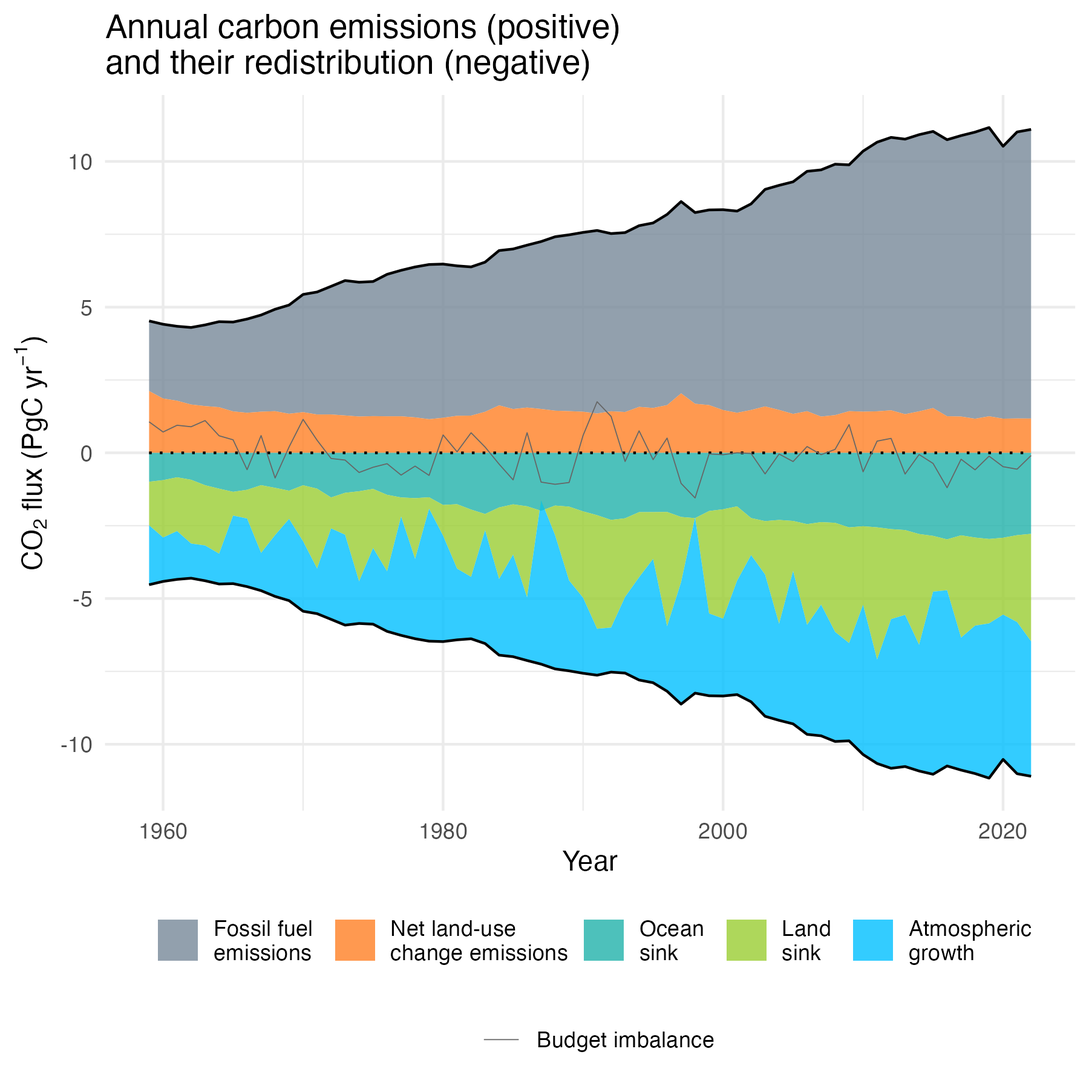
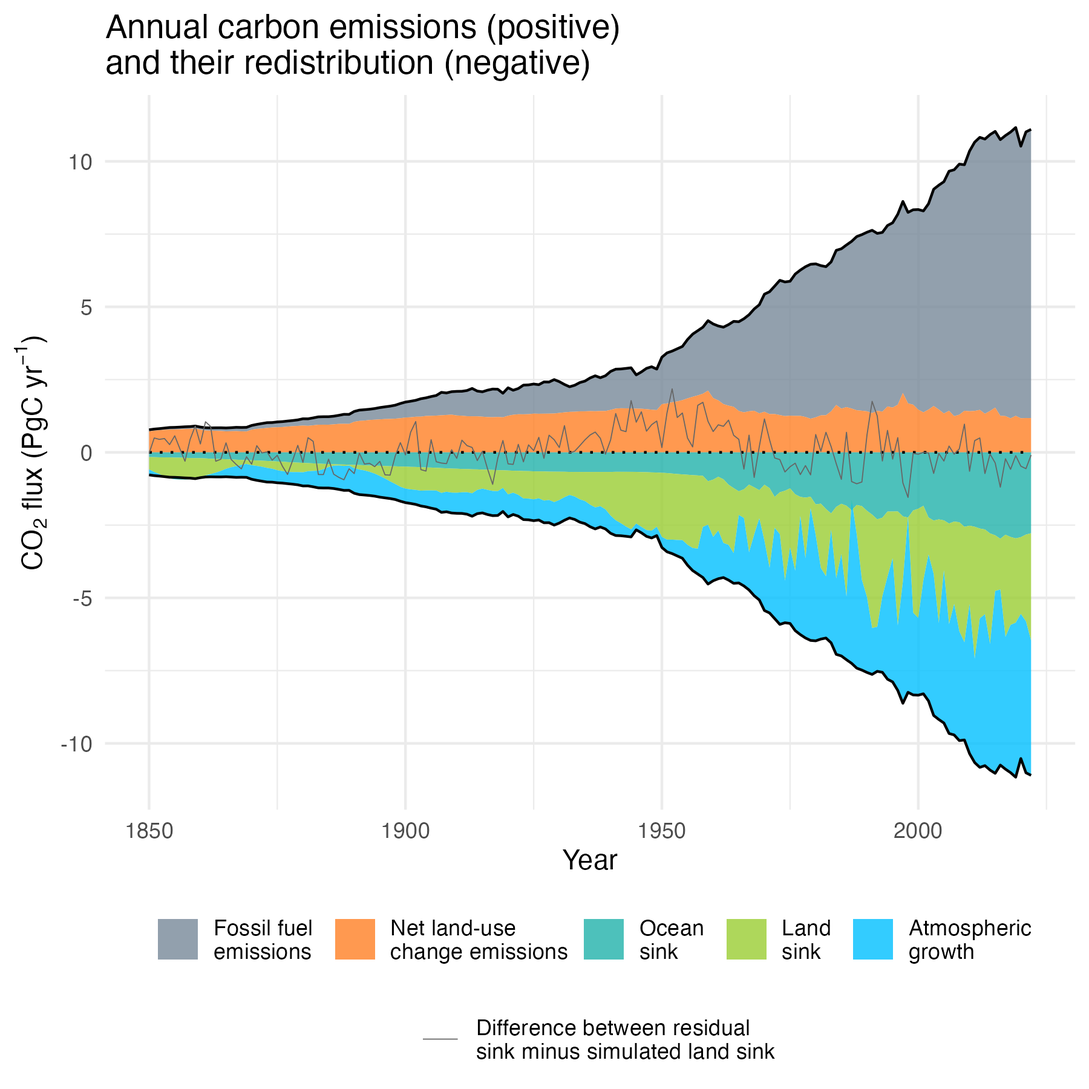
Built site for gh-pages

diff --git a/globalcarbonbudget.html b/globalcarbonbudget.html
@@ -628,115 +628,122 @@ Exercise
 <span id="cb1-9"><a href="#cb1-9" aria-hidden="true" tabindex="-1"></a><span class="co"># https://globalcarbonbudgetdata.org/latest-data.html</span></span>
 <span id="cb1-10"><a href="#cb1-10" aria-hidden="true" tabindex="-1"></a><span class="co"># Saved tab Global Carbon Budget as a CSV file. </span></span>
 <span id="cb1-11"><a href="#cb1-11" aria-hidden="true" tabindex="-1"></a><span class="co"># Reading this CSV here.</span></span>
-<span id="cb1-12"><a href="#cb1-12" aria-hidden="true" tabindex="-1"></a>df <span class="ot">&lt;-</span> <span class="fu">read_csv</span>(<span class="fu">here</span>(<span class="st">"data/Global_Carbon_Budget_2023v1.0_tabGlobalCarbonBudget.csv"</span>))</span>
+<span id="cb1-12"><a href="#cb1-12" aria-hidden="true" tabindex="-1"></a>df <span class="ot">&lt;-</span> <span class="fu">read_csv</span>(<span class="fu">here</span>(<span class="st">"data/Global_Carbon_Budget_2023v1.1_tabHistoricalBudget.csv"</span>))</span>
 <span id="cb1-13"><a href="#cb1-13" aria-hidden="true" tabindex="-1"></a></span>
 <span id="cb1-14"><a href="#cb1-14" aria-hidden="true" tabindex="-1"></a><span class="co"># (Re-) definitions</span></span>
 <span id="cb1-15"><a href="#cb1-15" aria-hidden="true" tabindex="-1"></a>df <span class="ot">&lt;-</span> df <span class="sc">|&gt;</span> </span>
 <span id="cb1-16"><a href="#cb1-16" aria-hidden="true" tabindex="-1"></a>  </span>
-<span id="cb1-17"><a href="#cb1-17" aria-hidden="true" tabindex="-1"></a>  <span class="co"># Include the carbonation sink in the fossil fuel emissions</span></span>
-<span id="cb1-18"><a href="#cb1-18" aria-hidden="true" tabindex="-1"></a>  <span class="fu">mutate</span>(<span class="at">e_ff =</span> e_ff <span class="sc">-</span> s_cement) <span class="sc">|&gt;</span> </span>
-<span id="cb1-19"><a href="#cb1-19" aria-hidden="true" tabindex="-1"></a>    </span>
-<span id="cb1-20"><a href="#cb1-20" aria-hidden="true" tabindex="-1"></a>  <span class="co"># Land sink defined as the budget residual</span></span>
-<span id="cb1-21"><a href="#cb1-21" aria-hidden="true" tabindex="-1"></a>  <span class="fu">mutate</span>(<span class="at">s_res =</span> e_ff <span class="sc">+</span> e_luc <span class="sc">-</span> g_atm <span class="sc">-</span> s_ocean)</span>
-<span id="cb1-22"><a href="#cb1-22" aria-hidden="true" tabindex="-1"></a></span>
-<span id="cb1-23"><a href="#cb1-23" aria-hidden="true" tabindex="-1"></a><span class="co"># Create the budget plot</span></span>
-<span id="cb1-24"><a href="#cb1-24" aria-hidden="true" tabindex="-1"></a>df <span class="sc">|&gt;</span> </span>
-<span id="cb1-25"><a href="#cb1-25" aria-hidden="true" tabindex="-1"></a>  <span class="fu">ggplot</span>() <span class="sc">+</span></span>
-<span id="cb1-26"><a href="#cb1-26" aria-hidden="true" tabindex="-1"></a>  <span class="fu">geom_ribbon</span>(</span>
-<span id="cb1-27"><a href="#cb1-27" aria-hidden="true" tabindex="-1"></a>    <span class="fu">aes</span>(</span>
-<span id="cb1-28"><a href="#cb1-28" aria-hidden="true" tabindex="-1"></a>        <span class="at">x =</span> year, </span>
-<span id="cb1-29"><a href="#cb1-29" aria-hidden="true" tabindex="-1"></a>        <span class="at">ymax =</span> e_ff <span class="sc">+</span> e_luc, </span>
-<span id="cb1-30"><a href="#cb1-30" aria-hidden="true" tabindex="-1"></a>        <span class="at">ymin =</span> e_luc, </span>
-<span id="cb1-31"><a href="#cb1-31" aria-hidden="true" tabindex="-1"></a>        <span class="at">fill =</span> <span class="st">"ff"</span>), </span>
-<span id="cb1-32"><a href="#cb1-32" aria-hidden="true" tabindex="-1"></a>    <span class="at">alpha =</span> <span class="fl">0.8</span></span>
-<span id="cb1-33"><a href="#cb1-33" aria-hidden="true" tabindex="-1"></a>    ) <span class="sc">+</span></span>
-<span id="cb1-34"><a href="#cb1-34" aria-hidden="true" tabindex="-1"></a>  <span class="fu">geom_ribbon</span>(</span>
-<span id="cb1-35"><a href="#cb1-35" aria-hidden="true" tabindex="-1"></a>    <span class="fu">aes</span>(</span>
-<span id="cb1-36"><a href="#cb1-36" aria-hidden="true" tabindex="-1"></a>        <span class="at">x =</span> year, </span>
-<span id="cb1-37"><a href="#cb1-37" aria-hidden="true" tabindex="-1"></a>        <span class="at">ymax =</span> e_luc, </span>
-<span id="cb1-38"><a href="#cb1-38" aria-hidden="true" tabindex="-1"></a>        <span class="at">ymin =</span> <span class="dv">0</span>, </span>
-<span id="cb1-39"><a href="#cb1-39" aria-hidden="true" tabindex="-1"></a>        <span class="at">fill =</span> <span class="st">"luc"</span>), </span>
-<span id="cb1-40"><a href="#cb1-40" aria-hidden="true" tabindex="-1"></a>    <span class="at">alpha =</span> <span class="fl">0.8</span></span>
-<span id="cb1-41"><a href="#cb1-41" aria-hidden="true" tabindex="-1"></a>    ) <span class="sc">+</span></span>
-<span id="cb1-42"><a href="#cb1-42" aria-hidden="true" tabindex="-1"></a>  <span class="fu">geom_ribbon</span>(</span>
-<span id="cb1-43"><a href="#cb1-43" aria-hidden="true" tabindex="-1"></a>    <span class="fu">aes</span>(</span>
-<span id="cb1-44"><a href="#cb1-44" aria-hidden="true" tabindex="-1"></a>        <span class="at">x =</span> year, </span>
-<span id="cb1-45"><a href="#cb1-45" aria-hidden="true" tabindex="-1"></a>        <span class="at">ymax =</span> <span class="dv">0</span>, </span>
-<span id="cb1-46"><a href="#cb1-46" aria-hidden="true" tabindex="-1"></a>        <span class="at">ymin =</span> <span class="sc">-</span>s_ocean, </span>
-<span id="cb1-47"><a href="#cb1-47" aria-hidden="true" tabindex="-1"></a>        <span class="at">fill =</span> <span class="st">"ocean"</span>), </span>
-<span id="cb1-48"><a href="#cb1-48" aria-hidden="true" tabindex="-1"></a>    <span class="at">alpha =</span> <span class="fl">0.8</span></span>
-<span id="cb1-49"><a href="#cb1-49" aria-hidden="true" tabindex="-1"></a>    ) <span class="sc">+</span></span>
-<span id="cb1-50"><a href="#cb1-50" aria-hidden="true" tabindex="-1"></a>  <span class="fu">geom_ribbon</span>(</span>
-<span id="cb1-51"><a href="#cb1-51" aria-hidden="true" tabindex="-1"></a>    <span class="fu">aes</span>(</span>
-<span id="cb1-52"><a href="#cb1-52" aria-hidden="true" tabindex="-1"></a>        <span class="at">x =</span> year, </span>
-<span id="cb1-53"><a href="#cb1-53" aria-hidden="true" tabindex="-1"></a>        <span class="at">ymax =</span> <span class="sc">-</span>s_ocean, </span>
-<span id="cb1-54"><a href="#cb1-54" aria-hidden="true" tabindex="-1"></a>        <span class="at">ymin =</span> <span class="sc">-</span>(s_ocean <span class="sc">+</span> s_res), </span>
-<span id="cb1-55"><a href="#cb1-55" aria-hidden="true" tabindex="-1"></a>        <span class="at">fill =</span> <span class="st">"land"</span>), </span>
-<span id="cb1-56"><a href="#cb1-56" aria-hidden="true" tabindex="-1"></a>    <span class="at">alpha =</span> <span class="fl">0.8</span></span>
-<span id="cb1-57"><a href="#cb1-57" aria-hidden="true" tabindex="-1"></a>    ) <span class="sc">+</span></span>
-<span id="cb1-58"><a href="#cb1-58" aria-hidden="true" tabindex="-1"></a>  <span class="fu">geom_ribbon</span>(</span>
-<span id="cb1-59"><a href="#cb1-59" aria-hidden="true" tabindex="-1"></a>    <span class="fu">aes</span>(</span>
-<span id="cb1-60"><a href="#cb1-60" aria-hidden="true" tabindex="-1"></a>        <span class="at">x =</span> year, </span>
-<span id="cb1-61"><a href="#cb1-61" aria-hidden="true" tabindex="-1"></a>        <span class="at">ymax =</span> <span class="sc">-</span>(s_ocean <span class="sc">+</span> s_res), </span>
-<span id="cb1-62"><a href="#cb1-62" aria-hidden="true" tabindex="-1"></a>        <span class="at">ymin =</span> <span class="sc">-</span>(s_ocean <span class="sc">+</span> s_res <span class="sc">+</span> g_atm), </span>
-<span id="cb1-63"><a href="#cb1-63" aria-hidden="true" tabindex="-1"></a>        <span class="at">fill =</span> <span class="st">"atm"</span>), </span>
-<span id="cb1-64"><a href="#cb1-64" aria-hidden="true" tabindex="-1"></a>    <span class="at">alpha =</span> <span class="fl">0.8</span>) <span class="sc">+</span></span>
-<span id="cb1-65"><a href="#cb1-65" aria-hidden="true" tabindex="-1"></a>  <span class="fu">geom_line</span>(</span>
+<span id="cb1-17"><a href="#cb1-17" aria-hidden="true" tabindex="-1"></a>  <span class="co"># consider only years after 1850</span></span>
+<span id="cb1-18"><a href="#cb1-18" aria-hidden="true" tabindex="-1"></a>  <span class="fu">filter</span>(year <span class="sc">&gt;=</span> <span class="dv">1850</span>) <span class="sc">|&gt;</span> </span>
+<span id="cb1-19"><a href="#cb1-19" aria-hidden="true" tabindex="-1"></a>  </span>
+<span id="cb1-20"><a href="#cb1-20" aria-hidden="true" tabindex="-1"></a>  <span class="co"># Assume zero cement carbonation sink for years where no data is available </span></span>
+<span id="cb1-21"><a href="#cb1-21" aria-hidden="true" tabindex="-1"></a>  <span class="co"># (pre-1930)</span></span>
+<span id="cb1-22"><a href="#cb1-22" aria-hidden="true" tabindex="-1"></a>  <span class="fu">mutate</span>(<span class="at">s_cement =</span> <span class="fu">ifelse</span>(<span class="fu">is.na</span>(s_cement), <span class="dv">0</span>, s_cement)) <span class="sc">|&gt;</span> </span>
+<span id="cb1-23"><a href="#cb1-23" aria-hidden="true" tabindex="-1"></a>  </span>
+<span id="cb1-24"><a href="#cb1-24" aria-hidden="true" tabindex="-1"></a>  <span class="co"># Include the carbonation sink in the fossil fuel emissions</span></span>
+<span id="cb1-25"><a href="#cb1-25" aria-hidden="true" tabindex="-1"></a>  <span class="fu">mutate</span>(<span class="at">e_ff =</span> e_ff <span class="sc">-</span> s_cement) <span class="sc">|&gt;</span> </span>
+<span id="cb1-26"><a href="#cb1-26" aria-hidden="true" tabindex="-1"></a>    </span>
+<span id="cb1-27"><a href="#cb1-27" aria-hidden="true" tabindex="-1"></a>  <span class="co"># Land sink defined as the budget residual</span></span>
+<span id="cb1-28"><a href="#cb1-28" aria-hidden="true" tabindex="-1"></a>  <span class="fu">mutate</span>(<span class="at">s_res =</span> e_ff <span class="sc">+</span> e_luc <span class="sc">-</span> g_atm <span class="sc">-</span> s_ocean)</span>
+<span id="cb1-29"><a href="#cb1-29" aria-hidden="true" tabindex="-1"></a></span>
+<span id="cb1-30"><a href="#cb1-30" aria-hidden="true" tabindex="-1"></a><span class="co"># Create the budget plot</span></span>
+<span id="cb1-31"><a href="#cb1-31" aria-hidden="true" tabindex="-1"></a>df <span class="sc">|&gt;</span> </span>
+<span id="cb1-32"><a href="#cb1-32" aria-hidden="true" tabindex="-1"></a>  <span class="fu">ggplot</span>() <span class="sc">+</span></span>
+<span id="cb1-33"><a href="#cb1-33" aria-hidden="true" tabindex="-1"></a>  <span class="fu">geom_ribbon</span>(</span>
+<span id="cb1-34"><a href="#cb1-34" aria-hidden="true" tabindex="-1"></a>    <span class="fu">aes</span>(</span>
+<span id="cb1-35"><a href="#cb1-35" aria-hidden="true" tabindex="-1"></a>        <span class="at">x =</span> year, </span>
+<span id="cb1-36"><a href="#cb1-36" aria-hidden="true" tabindex="-1"></a>        <span class="at">ymax =</span> e_ff <span class="sc">+</span> e_luc, </span>
+<span id="cb1-37"><a href="#cb1-37" aria-hidden="true" tabindex="-1"></a>        <span class="at">ymin =</span> e_luc, </span>
+<span id="cb1-38"><a href="#cb1-38" aria-hidden="true" tabindex="-1"></a>        <span class="at">fill =</span> <span class="st">"ff"</span>), </span>
+<span id="cb1-39"><a href="#cb1-39" aria-hidden="true" tabindex="-1"></a>    <span class="at">alpha =</span> <span class="fl">0.8</span></span>
+<span id="cb1-40"><a href="#cb1-40" aria-hidden="true" tabindex="-1"></a>    ) <span class="sc">+</span></span>
+<span id="cb1-41"><a href="#cb1-41" aria-hidden="true" tabindex="-1"></a>  <span class="fu">geom_ribbon</span>(</span>
+<span id="cb1-42"><a href="#cb1-42" aria-hidden="true" tabindex="-1"></a>    <span class="fu">aes</span>(</span>
+<span id="cb1-43"><a href="#cb1-43" aria-hidden="true" tabindex="-1"></a>        <span class="at">x =</span> year, </span>
+<span id="cb1-44"><a href="#cb1-44" aria-hidden="true" tabindex="-1"></a>        <span class="at">ymax =</span> e_luc, </span>
+<span id="cb1-45"><a href="#cb1-45" aria-hidden="true" tabindex="-1"></a>        <span class="at">ymin =</span> <span class="dv">0</span>, </span>
+<span id="cb1-46"><a href="#cb1-46" aria-hidden="true" tabindex="-1"></a>        <span class="at">fill =</span> <span class="st">"luc"</span>), </span>
+<span id="cb1-47"><a href="#cb1-47" aria-hidden="true" tabindex="-1"></a>    <span class="at">alpha =</span> <span class="fl">0.8</span></span>
+<span id="cb1-48"><a href="#cb1-48" aria-hidden="true" tabindex="-1"></a>    ) <span class="sc">+</span></span>
+<span id="cb1-49"><a href="#cb1-49" aria-hidden="true" tabindex="-1"></a>  <span class="fu">geom_ribbon</span>(</span>
+<span id="cb1-50"><a href="#cb1-50" aria-hidden="true" tabindex="-1"></a>    <span class="fu">aes</span>(</span>
+<span id="cb1-51"><a href="#cb1-51" aria-hidden="true" tabindex="-1"></a>        <span class="at">x =</span> year, </span>
+<span id="cb1-52"><a href="#cb1-52" aria-hidden="true" tabindex="-1"></a>        <span class="at">ymax =</span> <span class="dv">0</span>, </span>
+<span id="cb1-53"><a href="#cb1-53" aria-hidden="true" tabindex="-1"></a>        <span class="at">ymin =</span> <span class="sc">-</span>s_ocean, </span>
+<span id="cb1-54"><a href="#cb1-54" aria-hidden="true" tabindex="-1"></a>        <span class="at">fill =</span> <span class="st">"ocean"</span>), </span>
+<span id="cb1-55"><a href="#cb1-55" aria-hidden="true" tabindex="-1"></a>    <span class="at">alpha =</span> <span class="fl">0.8</span></span>
+<span id="cb1-56"><a href="#cb1-56" aria-hidden="true" tabindex="-1"></a>    ) <span class="sc">+</span></span>
+<span id="cb1-57"><a href="#cb1-57" aria-hidden="true" tabindex="-1"></a>  <span class="fu">geom_ribbon</span>(</span>
+<span id="cb1-58"><a href="#cb1-58" aria-hidden="true" tabindex="-1"></a>    <span class="fu">aes</span>(</span>
+<span id="cb1-59"><a href="#cb1-59" aria-hidden="true" tabindex="-1"></a>        <span class="at">x =</span> year, </span>
+<span id="cb1-60"><a href="#cb1-60" aria-hidden="true" tabindex="-1"></a>        <span class="at">ymax =</span> <span class="sc">-</span>s_ocean, </span>
+<span id="cb1-61"><a href="#cb1-61" aria-hidden="true" tabindex="-1"></a>        <span class="at">ymin =</span> <span class="sc">-</span>(s_ocean <span class="sc">+</span> s_res), </span>
+<span id="cb1-62"><a href="#cb1-62" aria-hidden="true" tabindex="-1"></a>        <span class="at">fill =</span> <span class="st">"land"</span>), </span>
+<span id="cb1-63"><a href="#cb1-63" aria-hidden="true" tabindex="-1"></a>    <span class="at">alpha =</span> <span class="fl">0.8</span></span>
+<span id="cb1-64"><a href="#cb1-64" aria-hidden="true" tabindex="-1"></a>    ) <span class="sc">+</span></span>
+<span id="cb1-65"><a href="#cb1-65" aria-hidden="true" tabindex="-1"></a>  <span class="fu">geom_ribbon</span>(</span>
 <span id="cb1-66"><a href="#cb1-66" aria-hidden="true" tabindex="-1"></a>    <span class="fu">aes</span>(</span>
 <span id="cb1-67"><a href="#cb1-67" aria-hidden="true" tabindex="-1"></a>        <span class="at">x =</span> year, </span>
-<span id="cb1-68"><a href="#cb1-68" aria-hidden="true" tabindex="-1"></a>        <span class="at">y =</span> <span class="dv">0</span>), </span>
-<span id="cb1-69"><a href="#cb1-69" aria-hidden="true" tabindex="-1"></a>    <span class="at">linetype =</span> <span class="st">"dotted"</span>) <span class="sc">+</span></span>
-<span id="cb1-70"><a href="#cb1-70" aria-hidden="true" tabindex="-1"></a>  <span class="fu">geom_line</span>(</span>
-<span id="cb1-71"><a href="#cb1-71" aria-hidden="true" tabindex="-1"></a>    <span class="fu">aes</span>(</span>
-<span id="cb1-72"><a href="#cb1-72" aria-hidden="true" tabindex="-1"></a>        <span class="at">x =</span> year, </span>
-<span id="cb1-73"><a href="#cb1-73" aria-hidden="true" tabindex="-1"></a>        <span class="at">y =</span> e_ff <span class="sc">+</span> e_luc)</span>
-<span id="cb1-74"><a href="#cb1-74" aria-hidden="true" tabindex="-1"></a>    ) <span class="sc">+</span></span>
-<span id="cb1-75"><a href="#cb1-75" aria-hidden="true" tabindex="-1"></a>  <span class="fu">geom_line</span>(</span>
-<span id="cb1-76"><a href="#cb1-76" aria-hidden="true" tabindex="-1"></a>    <span class="fu">aes</span>(</span>
-<span id="cb1-77"><a href="#cb1-77" aria-hidden="true" tabindex="-1"></a>        <span class="at">x =</span> year, </span>
-<span id="cb1-78"><a href="#cb1-78" aria-hidden="true" tabindex="-1"></a>        <span class="at">y =</span> <span class="sc">-</span>(s_ocean <span class="sc">+</span> s_res <span class="sc">+</span> g_atm)</span>
-<span id="cb1-79"><a href="#cb1-79" aria-hidden="true" tabindex="-1"></a>        )</span>
-<span id="cb1-80"><a href="#cb1-80" aria-hidden="true" tabindex="-1"></a>    ) <span class="sc">+</span></span>
-<span id="cb1-81"><a href="#cb1-81" aria-hidden="true" tabindex="-1"></a>  <span class="fu">geom_line</span>(</span>
-<span id="cb1-82"><a href="#cb1-82" aria-hidden="true" tabindex="-1"></a>    <span class="fu">aes</span>(</span>
-<span id="cb1-83"><a href="#cb1-83" aria-hidden="true" tabindex="-1"></a>        <span class="at">x =</span> year, </span>
-<span id="cb1-84"><a href="#cb1-84" aria-hidden="true" tabindex="-1"></a>        <span class="at">y =</span> imbalance, </span>
-<span id="cb1-85"><a href="#cb1-85" aria-hidden="true" tabindex="-1"></a>        <span class="at">color =</span> <span class="st">"imbalance"</span>), </span>
-<span id="cb1-86"><a href="#cb1-86" aria-hidden="true" tabindex="-1"></a>    <span class="at">linewidth =</span> <span class="fl">0.2</span></span>
+<span id="cb1-68"><a href="#cb1-68" aria-hidden="true" tabindex="-1"></a>        <span class="at">ymax =</span> <span class="sc">-</span>(s_ocean <span class="sc">+</span> s_res), </span>
+<span id="cb1-69"><a href="#cb1-69" aria-hidden="true" tabindex="-1"></a>        <span class="at">ymin =</span> <span class="sc">-</span>(s_ocean <span class="sc">+</span> s_res <span class="sc">+</span> g_atm), </span>
+<span id="cb1-70"><a href="#cb1-70" aria-hidden="true" tabindex="-1"></a>        <span class="at">fill =</span> <span class="st">"atm"</span>), </span>
+<span id="cb1-71"><a href="#cb1-71" aria-hidden="true" tabindex="-1"></a>    <span class="at">alpha =</span> <span class="fl">0.8</span>) <span class="sc">+</span></span>
+<span id="cb1-72"><a href="#cb1-72" aria-hidden="true" tabindex="-1"></a>  <span class="fu">geom_line</span>(</span>
+<span id="cb1-73"><a href="#cb1-73" aria-hidden="true" tabindex="-1"></a>    <span class="fu">aes</span>(</span>
+<span id="cb1-74"><a href="#cb1-74" aria-hidden="true" tabindex="-1"></a>        <span class="at">x =</span> year, </span>
+<span id="cb1-75"><a href="#cb1-75" aria-hidden="true" tabindex="-1"></a>        <span class="at">y =</span> <span class="dv">0</span>), </span>
+<span id="cb1-76"><a href="#cb1-76" aria-hidden="true" tabindex="-1"></a>    <span class="at">linetype =</span> <span class="st">"dotted"</span>) <span class="sc">+</span></span>
+<span id="cb1-77"><a href="#cb1-77" aria-hidden="true" tabindex="-1"></a>  <span class="fu">geom_line</span>(</span>
+<span id="cb1-78"><a href="#cb1-78" aria-hidden="true" tabindex="-1"></a>    <span class="fu">aes</span>(</span>
+<span id="cb1-79"><a href="#cb1-79" aria-hidden="true" tabindex="-1"></a>        <span class="at">x =</span> year, </span>
+<span id="cb1-80"><a href="#cb1-80" aria-hidden="true" tabindex="-1"></a>        <span class="at">y =</span> e_ff <span class="sc">+</span> e_luc)</span>
+<span id="cb1-81"><a href="#cb1-81" aria-hidden="true" tabindex="-1"></a>    ) <span class="sc">+</span></span>
+<span id="cb1-82"><a href="#cb1-82" aria-hidden="true" tabindex="-1"></a>  <span class="fu">geom_line</span>(</span>
+<span id="cb1-83"><a href="#cb1-83" aria-hidden="true" tabindex="-1"></a>    <span class="fu">aes</span>(</span>
+<span id="cb1-84"><a href="#cb1-84" aria-hidden="true" tabindex="-1"></a>        <span class="at">x =</span> year, </span>
+<span id="cb1-85"><a href="#cb1-85" aria-hidden="true" tabindex="-1"></a>        <span class="at">y =</span> <span class="sc">-</span>(s_ocean <span class="sc">+</span> s_res <span class="sc">+</span> g_atm)</span>
+<span id="cb1-86"><a href="#cb1-86" aria-hidden="true" tabindex="-1"></a>        )</span>
 <span id="cb1-87"><a href="#cb1-87" aria-hidden="true" tabindex="-1"></a>    ) <span class="sc">+</span></span>
-<span id="cb1-88"><a href="#cb1-88" aria-hidden="true" tabindex="-1"></a>  <span class="fu">labs</span>(<span class="at">x =</span> <span class="st">"Year"</span>,</span>
-<span id="cb1-89"><a href="#cb1-89" aria-hidden="true" tabindex="-1"></a>       <span class="at">y =</span> <span class="fu">expression</span>(<span class="fu">paste</span>(<span class="st">"CO"</span>[<span class="dv">2</span>], <span class="st">" flux (PgC yr"</span><span class="sc">^-</span><span class="dv">1</span>, <span class="st">")"</span>)),</span>
-<span id="cb1-90"><a href="#cb1-90" aria-hidden="true" tabindex="-1"></a>       <span class="at">title =</span> <span class="st">"Annual carbon emissions (positive) </span><span class="sc">\n</span><span class="st">and their redistribution (negative)"</span></span>
-<span id="cb1-91"><a href="#cb1-91" aria-hidden="true" tabindex="-1"></a>       ) <span class="sc">+</span></span>
-<span id="cb1-92"><a href="#cb1-92" aria-hidden="true" tabindex="-1"></a>  <span class="fu">scale_fill_manual</span>(</span>
-<span id="cb1-93"><a href="#cb1-93" aria-hidden="true" tabindex="-1"></a>    <span class="at">name =</span> <span class="st">""</span>,</span>
-<span id="cb1-94"><a href="#cb1-94" aria-hidden="true" tabindex="-1"></a>    <span class="at">breaks =</span> <span class="fu">c</span>(<span class="st">"ff"</span>, <span class="st">"luc"</span>, <span class="st">"ocean"</span>, <span class="st">"land"</span>, <span class="st">"atm"</span>),</span>
-<span id="cb1-95"><a href="#cb1-95" aria-hidden="true" tabindex="-1"></a>    <span class="at">values =</span> <span class="fu">c</span>(<span class="st">"ff"</span> <span class="ot">=</span> <span class="st">"lightslategrey"</span>,</span>
-<span id="cb1-96"><a href="#cb1-96" aria-hidden="true" tabindex="-1"></a>               <span class="st">"luc"</span> <span class="ot">=</span> <span class="st">"chocolate1"</span>,</span>
-<span id="cb1-97"><a href="#cb1-97" aria-hidden="true" tabindex="-1"></a>               <span class="st">"ocean"</span> <span class="ot">=</span> <span class="st">"lightseagreen"</span>,</span>
-<span id="cb1-98"><a href="#cb1-98" aria-hidden="true" tabindex="-1"></a>               <span class="st">"land"</span> <span class="ot">=</span> <span class="st">"yellowgreen"</span>,</span>
-<span id="cb1-99"><a href="#cb1-99" aria-hidden="true" tabindex="-1"></a>               <span class="st">"atm"</span> <span class="ot">=</span> <span class="st">"deepskyblue1"</span></span>
-<span id="cb1-100"><a href="#cb1-100" aria-hidden="true" tabindex="-1"></a>               ),</span>
-<span id="cb1-101"><a href="#cb1-101" aria-hidden="true" tabindex="-1"></a>    <span class="at">labels =</span> <span class="fu">c</span>(<span class="st">"Fossil fuel </span><span class="sc">\n</span><span class="st">emissions"</span>, </span>
-<span id="cb1-102"><a href="#cb1-102" aria-hidden="true" tabindex="-1"></a>               <span class="st">"Net land-use </span><span class="sc">\n</span><span class="st">change emissions"</span>, </span>
-<span id="cb1-103"><a href="#cb1-103" aria-hidden="true" tabindex="-1"></a>               <span class="st">"Ocean </span><span class="sc">\n</span><span class="st">sink"</span>, </span>
-<span id="cb1-104"><a href="#cb1-104" aria-hidden="true" tabindex="-1"></a>               <span class="st">"Land </span><span class="sc">\n</span><span class="st">sink"</span>, </span>
-<span id="cb1-105"><a href="#cb1-105" aria-hidden="true" tabindex="-1"></a>               <span class="st">"Atmospheric </span><span class="sc">\n</span><span class="st">growth"</span></span>
-<span id="cb1-106"><a href="#cb1-106" aria-hidden="true" tabindex="-1"></a>               )</span>
-<span id="cb1-107"><a href="#cb1-107" aria-hidden="true" tabindex="-1"></a>  ) <span class="sc">+</span></span>
-<span id="cb1-108"><a href="#cb1-108" aria-hidden="true" tabindex="-1"></a>  <span class="fu">scale_color_manual</span>(</span>
-<span id="cb1-109"><a href="#cb1-109" aria-hidden="true" tabindex="-1"></a>    <span class="at">name =</span> <span class="st">""</span>, </span>
-<span id="cb1-110"><a href="#cb1-110" aria-hidden="true" tabindex="-1"></a>    <span class="at">breaks =</span> <span class="st">"imbalance"</span>, </span>
-<span id="cb1-111"><a href="#cb1-111" aria-hidden="true" tabindex="-1"></a>    <span class="at">values =</span> <span class="fu">c</span>(<span class="st">"imbalance"</span> <span class="ot">=</span> <span class="st">"grey40"</span>),</span>
-<span id="cb1-112"><a href="#cb1-112" aria-hidden="true" tabindex="-1"></a>    <span class="at">labels =</span> <span class="st">"Budget imbalance"</span></span>
-<span id="cb1-113"><a href="#cb1-113" aria-hidden="true" tabindex="-1"></a>    ) <span class="sc">+</span></span>
-<span id="cb1-114"><a href="#cb1-114" aria-hidden="true" tabindex="-1"></a>  <span class="fu">theme_minimal</span>() <span class="sc">+</span></span>
-<span id="cb1-115"><a href="#cb1-115" aria-hidden="true" tabindex="-1"></a>  <span class="fu">theme</span>(</span>
-<span id="cb1-116"><a href="#cb1-116" aria-hidden="true" tabindex="-1"></a>    <span class="at">legend.position=</span><span class="st">"bottom"</span>, </span>
-<span id="cb1-117"><a href="#cb1-117" aria-hidden="true" tabindex="-1"></a>    <span class="at">legend.box =</span> <span class="st">"vertical"</span></span>
-<span id="cb1-118"><a href="#cb1-118" aria-hidden="true" tabindex="-1"></a>    )</span>
-<span id="cb1-119"><a href="#cb1-119" aria-hidden="true" tabindex="-1"></a></span>
-<span id="cb1-120"><a href="#cb1-120" aria-hidden="true" tabindex="-1"></a><span class="fu">ggsave</span>(here<span class="sc">::</span><span class="fu">here</span>(<span class="st">"book/images/globalcarbonbudget.png"</span>), <span class="at">width =</span> <span class="dv">6</span>, <span class="at">height =</span> <span class="dv">6</span>)</span></code><button title="Copy to Clipboard" class="code-copy-button"><i class="bi"></i></button></pre></div>
+<span id="cb1-88"><a href="#cb1-88" aria-hidden="true" tabindex="-1"></a>  <span class="fu">geom_line</span>(</span>
+<span id="cb1-89"><a href="#cb1-89" aria-hidden="true" tabindex="-1"></a>    <span class="fu">aes</span>(</span>
+<span id="cb1-90"><a href="#cb1-90" aria-hidden="true" tabindex="-1"></a>        <span class="at">x =</span> year, </span>
+<span id="cb1-91"><a href="#cb1-91" aria-hidden="true" tabindex="-1"></a>        <span class="at">y =</span> imbalance, </span>
+<span id="cb1-92"><a href="#cb1-92" aria-hidden="true" tabindex="-1"></a>        <span class="at">color =</span> <span class="st">"imbalance"</span>), </span>
+<span id="cb1-93"><a href="#cb1-93" aria-hidden="true" tabindex="-1"></a>    <span class="at">linewidth =</span> <span class="fl">0.2</span></span>
+<span id="cb1-94"><a href="#cb1-94" aria-hidden="true" tabindex="-1"></a>    ) <span class="sc">+</span></span>
+<span id="cb1-95"><a href="#cb1-95" aria-hidden="true" tabindex="-1"></a>  <span class="fu">labs</span>(<span class="at">x =</span> <span class="st">"Year"</span>,</span>
+<span id="cb1-96"><a href="#cb1-96" aria-hidden="true" tabindex="-1"></a>       <span class="at">y =</span> <span class="fu">expression</span>(<span class="fu">paste</span>(<span class="st">"CO"</span>[<span class="dv">2</span>], <span class="st">" flux (PgC yr"</span><span class="sc">^-</span><span class="dv">1</span>, <span class="st">")"</span>)),</span>
+<span id="cb1-97"><a href="#cb1-97" aria-hidden="true" tabindex="-1"></a>       <span class="at">title =</span> <span class="st">"Annual carbon emissions (positive) </span><span class="sc">\n</span><span class="st">and their redistribution (negative)"</span></span>
+<span id="cb1-98"><a href="#cb1-98" aria-hidden="true" tabindex="-1"></a>       ) <span class="sc">+</span></span>
+<span id="cb1-99"><a href="#cb1-99" aria-hidden="true" tabindex="-1"></a>  <span class="fu">scale_fill_manual</span>(</span>
+<span id="cb1-100"><a href="#cb1-100" aria-hidden="true" tabindex="-1"></a>    <span class="at">name =</span> <span class="st">""</span>,</span>
+<span id="cb1-101"><a href="#cb1-101" aria-hidden="true" tabindex="-1"></a>    <span class="at">breaks =</span> <span class="fu">c</span>(<span class="st">"ff"</span>, <span class="st">"luc"</span>, <span class="st">"ocean"</span>, <span class="st">"land"</span>, <span class="st">"atm"</span>),</span>
+<span id="cb1-102"><a href="#cb1-102" aria-hidden="true" tabindex="-1"></a>    <span class="at">values =</span> <span class="fu">c</span>(<span class="st">"ff"</span> <span class="ot">=</span> <span class="st">"lightslategrey"</span>,</span>
+<span id="cb1-103"><a href="#cb1-103" aria-hidden="true" tabindex="-1"></a>               <span class="st">"luc"</span> <span class="ot">=</span> <span class="st">"chocolate1"</span>,</span>
+<span id="cb1-104"><a href="#cb1-104" aria-hidden="true" tabindex="-1"></a>               <span class="st">"ocean"</span> <span class="ot">=</span> <span class="st">"lightseagreen"</span>,</span>
+<span id="cb1-105"><a href="#cb1-105" aria-hidden="true" tabindex="-1"></a>               <span class="st">"land"</span> <span class="ot">=</span> <span class="st">"yellowgreen"</span>,</span>
+<span id="cb1-106"><a href="#cb1-106" aria-hidden="true" tabindex="-1"></a>               <span class="st">"atm"</span> <span class="ot">=</span> <span class="st">"deepskyblue1"</span></span>
+<span id="cb1-107"><a href="#cb1-107" aria-hidden="true" tabindex="-1"></a>               ),</span>
+<span id="cb1-108"><a href="#cb1-108" aria-hidden="true" tabindex="-1"></a>    <span class="at">labels =</span> <span class="fu">c</span>(<span class="st">"Fossil fuel </span><span class="sc">\n</span><span class="st">emissions"</span>, </span>
+<span id="cb1-109"><a href="#cb1-109" aria-hidden="true" tabindex="-1"></a>               <span class="st">"Net land-use </span><span class="sc">\n</span><span class="st">change emissions"</span>, </span>
+<span id="cb1-110"><a href="#cb1-110" aria-hidden="true" tabindex="-1"></a>               <span class="st">"Ocean </span><span class="sc">\n</span><span class="st">sink"</span>, </span>
+<span id="cb1-111"><a href="#cb1-111" aria-hidden="true" tabindex="-1"></a>               <span class="st">"Land </span><span class="sc">\n</span><span class="st">sink"</span>, </span>
+<span id="cb1-112"><a href="#cb1-112" aria-hidden="true" tabindex="-1"></a>               <span class="st">"Atmospheric </span><span class="sc">\n</span><span class="st">growth"</span></span>
+<span id="cb1-113"><a href="#cb1-113" aria-hidden="true" tabindex="-1"></a>               )</span>
+<span id="cb1-114"><a href="#cb1-114" aria-hidden="true" tabindex="-1"></a>  ) <span class="sc">+</span></span>
+<span id="cb1-115"><a href="#cb1-115" aria-hidden="true" tabindex="-1"></a>  <span class="fu">scale_color_manual</span>(</span>
+<span id="cb1-116"><a href="#cb1-116" aria-hidden="true" tabindex="-1"></a>    <span class="at">name =</span> <span class="st">""</span>, </span>
+<span id="cb1-117"><a href="#cb1-117" aria-hidden="true" tabindex="-1"></a>    <span class="at">breaks =</span> <span class="st">"imbalance"</span>, </span>
+<span id="cb1-118"><a href="#cb1-118" aria-hidden="true" tabindex="-1"></a>    <span class="at">values =</span> <span class="fu">c</span>(<span class="st">"imbalance"</span> <span class="ot">=</span> <span class="st">"grey40"</span>),</span>
+<span id="cb1-119"><a href="#cb1-119" aria-hidden="true" tabindex="-1"></a>    <span class="at">labels =</span> <span class="st">"Difference between residual </span><span class="sc">\n</span><span class="st">sink minus simulated land sink"</span></span>
+<span id="cb1-120"><a href="#cb1-120" aria-hidden="true" tabindex="-1"></a>    ) <span class="sc">+</span></span>
+<span id="cb1-121"><a href="#cb1-121" aria-hidden="true" tabindex="-1"></a>  <span class="fu">theme_minimal</span>() <span class="sc">+</span></span>
+<span id="cb1-122"><a href="#cb1-122" aria-hidden="true" tabindex="-1"></a>  <span class="fu">theme</span>(</span>
+<span id="cb1-123"><a href="#cb1-123" aria-hidden="true" tabindex="-1"></a>    <span class="at">legend.position=</span><span class="st">"bottom"</span>, </span>
+<span id="cb1-124"><a href="#cb1-124" aria-hidden="true" tabindex="-1"></a>    <span class="at">legend.box =</span> <span class="st">"vertical"</span></span>
+<span id="cb1-125"><a href="#cb1-125" aria-hidden="true" tabindex="-1"></a>    )</span>
+<span id="cb1-126"><a href="#cb1-126" aria-hidden="true" tabindex="-1"></a></span>
+<span id="cb1-127"><a href="#cb1-127" aria-hidden="true" tabindex="-1"></a><span class="fu">ggsave</span>(here<span class="sc">::</span><span class="fu">here</span>(<span class="st">"book/images/globalcarbonbudget.png"</span>), <span class="at">width =</span> <span class="dv">6</span>, <span class="at">height =</span> <span class="dv">6</span>)</span></code><button title="Copy to Clipboard" class="code-copy-button"><i class="bi"></i></button></pre></div>
 </details>
 <div class="cell-output-display">
 <div id="fig-carbon_budget" class="quarto-figure quarto-figure-center anchored">
